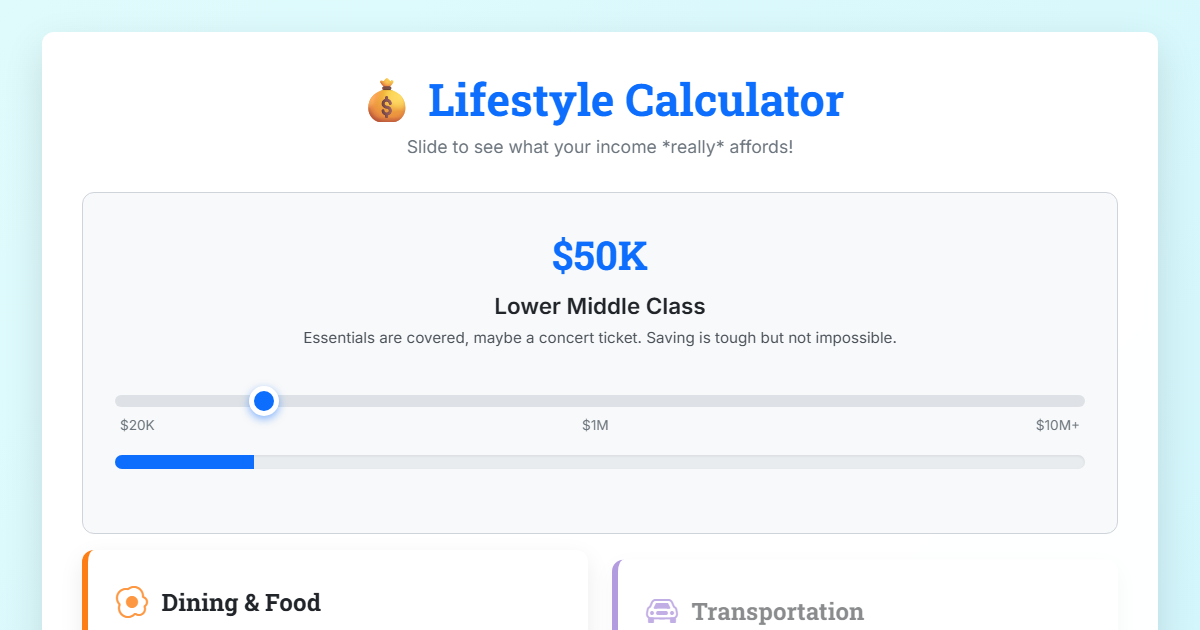
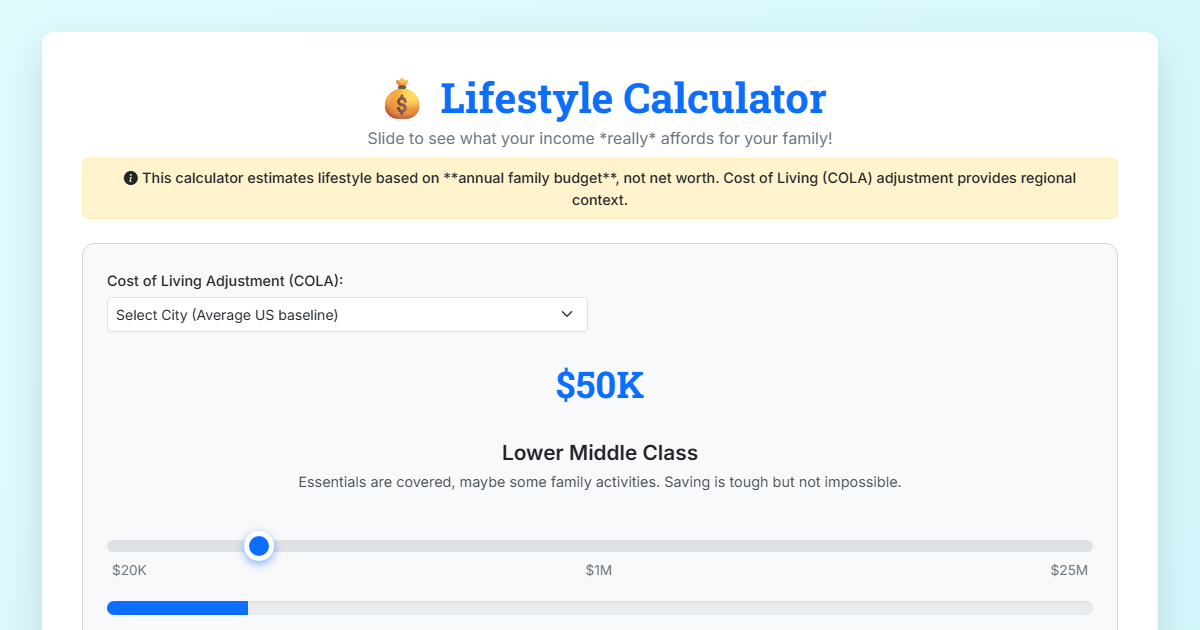
og image

diff --git a/lifestyle-calculator.html b/lifestyle-calculator.html
@@ -1,36 +1,32 @@
 <!DOCTYPE html>
+
 <html lang="en">
 <head>
-    <meta charset="utf-8"/>
-    <meta content="width=device-width, initial-scale=1.0" name="viewport"/>
-    <title>Lifestyle Calculator: What Your Family's Income Really Buys</title>
-    <meta content="Explore how different family income levels translate to real lifestyle choices. From $20K to $25M+, see what your household can afford: dining, travel, housing, entertainment, education, financial planning, and luxury services with this interactive tool. Includes a basic Cost of Living Adjustment." name="description"/>
-    <meta content="lifestyle calculator, income lifestyle, family budget, what can I afford, salary lifestyle, income comparison, lifestyle expenses, luxury calculator, income brackets, wealth lifestyle, finance, cost of living, financial planning, investments, family finance" name="keywords"/>
-    <link href="https://cheatsheets.davidveksler.com/lifestyle-calculator.html" rel="canonical"/>
-
-    <!-- Open Graph / Facebook -->
-    <meta content="website" property="og:type"/>
-    <meta content="https://cheatsheets.davidveksler.com/lifestyle-calculator.html" property="og:url"/>
-    <meta content="Lifestyle Calculator: What Your Family's Income Really Buys" property="og:title"/>
-    <meta content="Explore how different family income levels translate to real lifestyle choices, with a basic Cost of Living Adjustment. See what your household can afford from $20K to $25M+." property="og:description"/>
-    <meta content="https://cheatsheets.davidveksler.com/images/lifestyle-calculator-og.png" property="og:image"/>
-    <meta content="Interactive lifestyle calculator showing income to lifestyle progression " property="og:image:alt"/>
-    <meta content="1200" property="og:image:width"/>
-    <meta content="630" property="og:image:height"/>
-
-    <!-- Twitter Card -->
-    <meta content="summary_large_image" name="twitter:card"/>
-    <meta content="https://cheatsheets.davidveksler.com/lifestyle-calculator.html" name="twitter:url"/>
-    <meta content="Lifestyle Calculator: What Your Family's Income Really Buys" name="twitter:title"/>
-    <meta content="Explore how different family income levels translate to real lifestyle choices, with a basic Cost of Living Adjustment. See what your household can afford from $20K to $25M+." name="twitter:description"/>
-    <meta content="https://cheatsheets.davidveksler.com/images/lifestyle-calculator-twitter.png" name="twitter:image"/>
-
-    <link crossorigin="anonymous" href="https://cdn.jsdelivr.net/npm/bootstrap@5.3.3/dist/css/bootstrap.min.css" integrity="sha384-QWTKZyjpPEjISv5WaRU9OFeRpok6YctnYmDr5pNlyT2bRjXh0JMhjY6hW+ALEwIH" rel="stylesheet"/>
-    <link href="https://cdn.jsdelivr.net/npm/bootstrap-icons@1.11.3/font/bootstrap-icons.min.css" rel="stylesheet"/>
-    <link href="https://fonts.googleapis.com" rel="preconnect"/>
-    <link href="https://fonts.gstatic.com" rel="preconnect" crossorigin/>
-    <link href="https://fonts.googleapis.com/css2?family=Inter:wght@300;400;500;600;700&family=Roboto+Slab:wght@700&display=swap" rel="stylesheet"/>
-    <style>
+<meta charset="utf-8"/>
+<meta content="width=device-width, initial-scale=1.0" name="viewport"/>
+<title>Lifestyle Calculator: What Your Family's Income Really Buys</title>
+<meta content="Explore how different family income levels translate to real lifestyle choices. From $20K to $25M+, see what your household can afford: dining, travel, housing, entertainment, education, financial planning, and luxury services with this interactive tool. Includes a basic Cost of Living Adjustment." name="description"/>
+<meta content="lifestyle calculator, income lifestyle, family budget, what can I afford, salary lifestyle, income comparison, lifestyle expenses, luxury calculator, income brackets, wealth lifestyle, finance, cost of living, financial planning, investments, family finance" name="keywords"/>
+<link href="https://cheatsheets.davidveksler.com/lifestyle-calculator.html" rel="canonical"/>
+<!-- Open Graph / Facebook -->
+<meta content="website" property="og:type"/>
+<meta content="https://cheatsheets.davidveksler.com/lifestyle-calculator.html" property="og:url"/>
+<meta content="Lifestyle Calculator: What Your Family's Income Really Buys" property="og:title"/>
+<meta content="Explore how different family income levels translate to real lifestyle choices, with a basic Cost of Living Adjustment. See what your household can afford from $20K to $25M+." property="og:description"/>
+<meta content="Interactive lifestyle calculator showing income to lifestyle progression " property="og:image:alt"/>
+<meta content="1200" property="og:image:width"/>
+<meta content="630" property="og:image:height"/>
+<!-- Twitter Card -->
+<meta content="summary_large_image" name="twitter:card"/>
+<meta content="https://cheatsheets.davidveksler.com/lifestyle-calculator.html" name="twitter:url"/>
+<meta content="Lifestyle Calculator: What Your Family's Income Really Buys" name="twitter:title"/>
+<meta content="Explore how different family income levels translate to real lifestyle choices, with a basic Cost of Living Adjustment. See what your household can afford from $20K to $25M+." name="twitter:description"/>
+<link crossorigin="anonymous" href="https://cdn.jsdelivr.net/npm/bootstrap@5.3.3/dist/css/bootstrap.min.css" integrity="sha384-QWTKZyjpPEjISv5WaRU9OFeRpok6YctnYmDr5pNlyT2bRjXh0JMhjY6hW+ALEwIH" rel="stylesheet"/>
+<link href="https://cdn.jsdelivr.net/npm/bootstrap-icons@1.11.3/font/bootstrap-icons.min.css" rel="stylesheet"/>
+<link href="https://fonts.googleapis.com" rel="preconnect"/>
+<link crossorigin="" href="https://fonts.gstatic.com" rel="preconnect"/>
+<link href="https://fonts.googleapis.com/css2?family=Inter:wght@300;400;500;600;700&amp;family=Roboto+Slab:wght@700&amp;display=swap" rel="stylesheet"/>
+<style>
         :root {
             --primary-color: #0d6efd; /* Bootstrap Blue */
             --secondary-color: #6c757d; /* Bootstrap Gray */
@@ -234,85 +230,79 @@
         .fade-in { animation: fadeIn 0.6s ease-in-out; }
         @keyframes fadeIn { from { opacity: 0; transform: translateY(15px); } to { opacity: 1; transform: translateY(0); } }
     </style>
-   
-</head>
+<meta content="images/lifestyle-calculator.png" property="og:image"/><meta content="images/lifestyle-calculator.png" name="twitter:image"/></head>
 <body>
-    <div class="container">
-        <div class="main-container">
-            <div class="text-center">
-                <h1 class="page-title">💰 Lifestyle Calculator</h1>
-                <p class="page-subtitle">Slide to see what your income *really* affords for your family!</p>
-                <p class="calculator-note"><i class="bi bi-info-circle-fill"></i> This calculator estimates lifestyle based on **annual family budget**, not net worth. Cost of Living (COLA) adjustment provides regional context.</p>
-            </div>
-
-            <div class="controls-container">
-                <div class="row">
-                    <div class="col-md-6 cola-container">
-                        <label for="colaSelector" class="form-label">Cost of Living Adjustment (COLA):</label>
-                        <select id="colaSelector" class="form-select form-select-sm">
-                            <!-- Options will be populated by JavaScript -->
-                        </select>
-                    </div>
-                </div>
-                <div class="income-display" id="incomeDisplay">$50,000</div>
-                <div class="effective-income-display" id="effectiveIncomeDisplay"></div>
-                <div class="income-bracket-label" id="incomeBracketLabel">Lower Middle Class</div>
-                <div class="income-bracket-description" id="incomeBracketDescription">Making ends meet, with a little extra for fun.</div>
-
-                <input type="range" min="0" max="14" value="2" class="slider" id="incomeSlider">
-                <div class="slider-labels">
-                    <span>$20K</span>
-                    <span>$1M</span>
-                    <span>$25M</span>
-                </div>
-                <div class="visual-income-bar-container" id="visualIncomeBarContainer">
-                    <div class="income-bar-segment" id="incomeBarSegment"></div>
-                </div>
-            </div>
-
-            <div class="row">
-                <div class="col-lg-6">
-                    <div class="lifestyle-category dining fade-in">
-                        <div class="category-title"><i class="bi bi-egg-fried category-icon"></i> Dining & Food</div>
-                        <div id="dining-content"></div>
-                    </div>
-                    <div class="lifestyle-category travel fade-in">
-                        <div class="category-title"><i class="bi bi-airplane category-icon"></i> Travel & Vacations</div>
-                        <div id="travel-content"></div>
-                    </div>
-                    <div class="lifestyle-category housing fade-in">
-                        <div class="category-title"><i class="bi bi-house-door category-icon"></i> Housing & Living</div>
-                        <div id="housing-content"></div>
-                    </div>
-                    <div class="lifestyle-category transportation fade-in">
-                        <div class="category-title"><i class="bi bi-car-front-fill category-icon"></i> Transportation</div>
-                        <div id="transportation-content"></div>
-                    </div>
-                </div>
-                <div class="col-lg-6">
-                     <div class="lifestyle-category entertainment fade-in">
-                        <div class="category-title"><i class="bi bi-dice-5-fill category-icon"></i> Entertainment & Hobbies</div>
-                        <div id="entertainment-content"></div>
-                    </div>
-                    <div class="lifestyle-category education fade-in">
-                        <div class="category-title"><i class="bi bi-book-half category-icon"></i> Education & Growth</div>
-                        <div id="education-content"></div>
-                    </div>
-                     <div class="lifestyle-category services fade-in">
-                        <div class="category-title"><i class="bi bi-person-check-fill category-icon"></i> Personal Services</div>
-                        <div id="services-content"></div>
-                    </div>
-                    <div class="lifestyle-category financial-planning fade-in">
-                        <div class="category-title"><i class="bi bi-piggy-bank category-icon"></i> Financial Planning & Investments</div>
-                        <div id="financial-services-content"></div>
-                    </div>
-                </div>
-            </div>
-        </div>
-    </div>
-
-
-    <!-- Main Application Script -->
+<div class="container">
+<div class="main-container">
+<div class="text-center">
+<h1 class="page-title">💰 Lifestyle Calculator</h1>
+<p class="page-subtitle">Slide to see what your income *really* affords for your family!</p>
+<p class="calculator-note"><i class="bi bi-info-circle-fill"></i> This calculator estimates lifestyle based on **annual family budget**, not net worth. Cost of Living (COLA) adjustment provides regional context.</p>
+</div>
+<div class="controls-container">
+<div class="row">
+<div class="col-md-6 cola-container">
+<label class="form-label" for="colaSelector">Cost of Living Adjustment (COLA):</label>
+<select class="form-select form-select-sm" id="colaSelector">
+<!-- Options will be populated by JavaScript -->
+</select>
+</div>
+</div>
+<div class="income-display" id="incomeDisplay">$50,000</div>
+<div class="effective-income-display" id="effectiveIncomeDisplay"></div>
+<div class="income-bracket-label" id="incomeBracketLabel">Lower Middle Class</div>
+<div class="income-bracket-description" id="incomeBracketDescription">Making ends meet, with a little extra for fun.</div>
+<input class="slider" id="incomeSlider" max="14" min="0" type="range" value="2"/>
+<div class="slider-labels">
+<span>$20K</span>
+<span>$1M</span>
+<span>$25M</span>
+</div>
+<div class="visual-income-bar-container" id="visualIncomeBarContainer">
+<div class="income-bar-segment" id="incomeBarSegment"></div>
+</div>
+</div>
+<div class="row">
+<div class="col-lg-6">
+<div class="lifestyle-category dining fade-in">
+<div class="category-title"><i class="bi bi-egg-fried category-icon"></i> Dining &amp; Food</div>
+<div id="dining-content"></div>
+</div>
+<div class="lifestyle-category travel fade-in">
+<div class="category-title"><i class="bi bi-airplane category-icon"></i> Travel &amp; Vacations</div>
+<div id="travel-content"></div>
+</div>
+<div class="lifestyle-category housing fade-in">
+<div class="category-title"><i class="bi bi-house-door category-icon"></i> Housing &amp; Living</div>
+<div id="housing-content"></div>
+</div>
+<div class="lifestyle-category transportation fade-in">
+<div class="category-title"><i class="bi bi-car-front-fill category-icon"></i> Transportation</div>
+<div id="transportation-content"></div>
+</div>
+</div>
+<div class="col-lg-6">
+<div class="lifestyle-category entertainment fade-in">
+<div class="category-title"><i class="bi bi-dice-5-fill category-icon"></i> Entertainment &amp; Hobbies</div>
+<div id="entertainment-content"></div>
+</div>
+<div class="lifestyle-category education fade-in">
+<div class="category-title"><i class="bi bi-book-half category-icon"></i> Education &amp; Growth</div>
+<div id="education-content"></div>
+</div>
+<div class="lifestyle-category services fade-in">
+<div class="category-title"><i class="bi bi-person-check-fill category-icon"></i> Personal Services</div>
+<div id="services-content"></div>
+</div>
+<div class="lifestyle-category financial-planning fade-in">
+<div class="category-title"><i class="bi bi-piggy-bank category-icon"></i> Financial Planning &amp; Investments</div>
+<div id="financial-services-content"></div>
+</div>
+</div>
+</div>
+</div>
+</div>
+<!-- Main Application Script -->
 <script>
 let incomeBrackets = [];
 let lifestyleData = {};
@@ -525,6 +515,6 @@ document.addEventListener('DOMContentLoaded', () => {
 });
 
 </script>
-    <script src="https://cdn.jsdelivr.net/npm/bootstrap@5.3.3/dist/js/bootstrap.bundle.min.js" integrity="sha384-YvpcrYf0tY3lHB60NNkmXc5s9fDVZLESaAA55NDzOxhy9GkcIdslK1eN7N6jIeHz" crossorigin="anonymous"></script>
+<script crossorigin="anonymous" integrity="sha384-YvpcrYf0tY3lHB60NNkmXc5s9fDVZLESaAA55NDzOxhy9GkcIdslK1eN7N6jIeHz" src="https://cdn.jsdelivr.net/npm/bootstrap@5.3.3/dist/js/bootstrap.bundle.min.js"></script>
 </body>
 </html>
